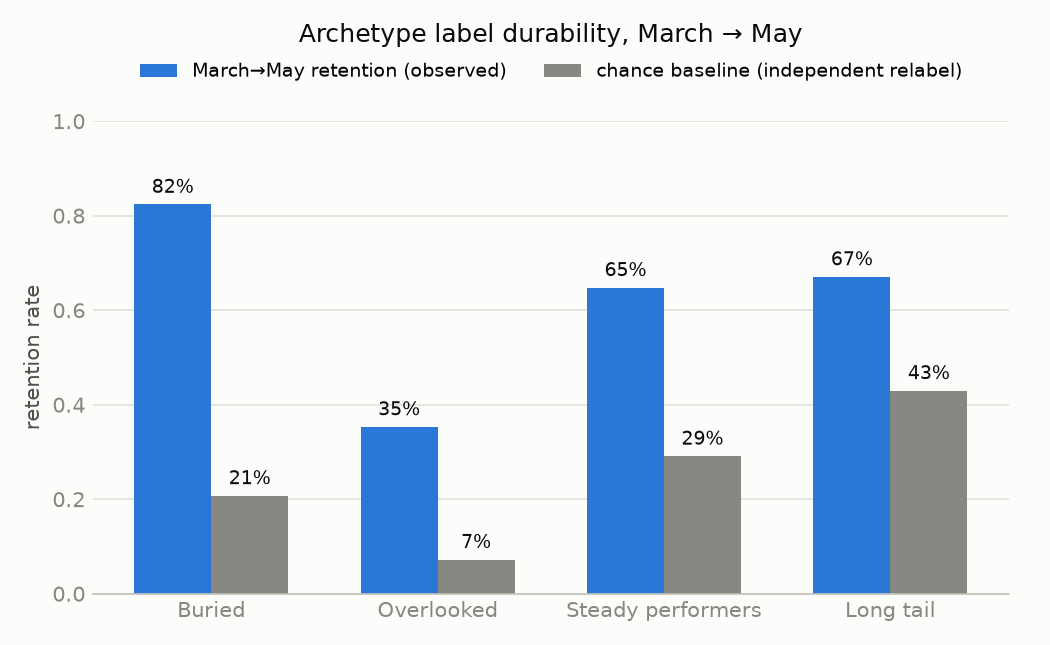
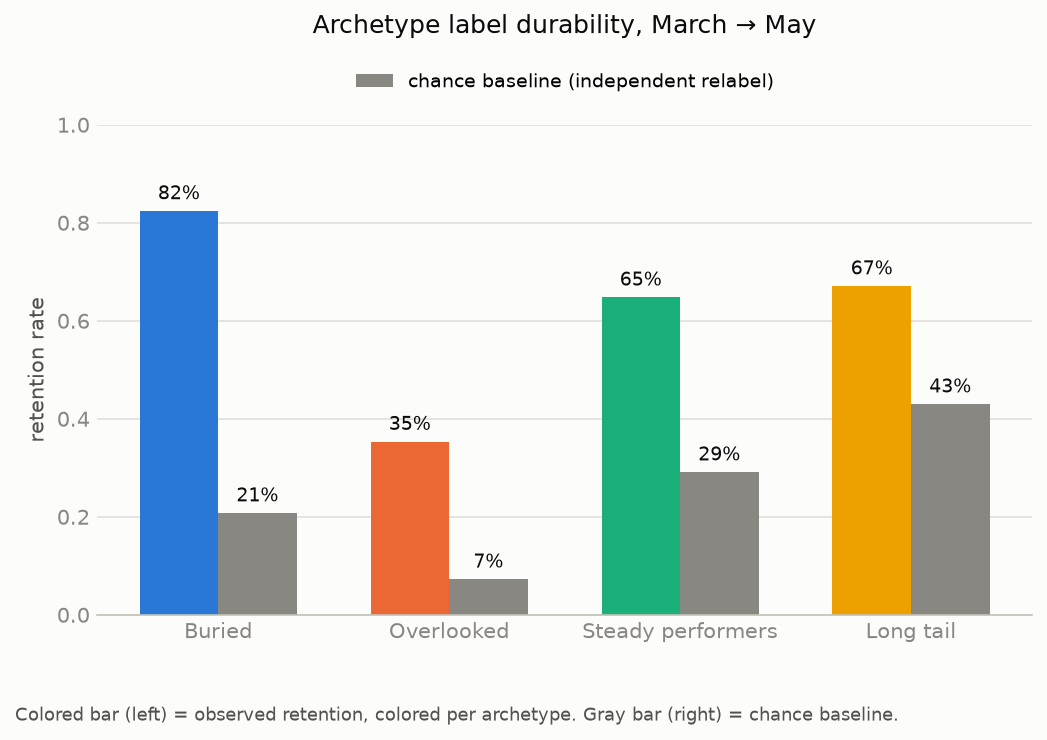
Paper round 2: color consistency, readable numbers, glossary, future-work note, credits
- Recolor archetype_retention_vs_chance.png's observed bars per-archetype
  (matching archetype_profile.png/tier_sizes.png); chance bars stay neutral gray.
- Abbreviate coverage_funnel.png's raw counts to 93.7k/170.4k-style labels.
- Add a Glossary section (CI, O/E, GroupKFold, silhouette, etc.) for mixed
  technical/non-technical readers.
- Add a Recommendations note framing archetype clustering as a routing-layer
  foundation, not a dead end, pointing at per-archetype sub-scoring as next work.
- Rewrite Acknowledgments: credit to Mirza (mentor) and Alen (opportunity), plus
  an AI-assistance disclosure.

diff --git a/docs/index.html b/docs/index.html
@@ -121,6 +121,7 @@
   <nav class="toc">
     <div class="toc-title">Contents</div>
     <a href="#abstract">Abstract</a>
+    <a href="#glossary">Glossary</a>
     <a href="#intro">Introduction</a>
     <a href="#data">Data</a>
     <a href="#methodology">Methodology</a>
@@ -143,6 +144,22 @@
           Which of a content team's tens of thousands of underperforming search pages are actually worth its limited attention, and does a fixed CTR-based rule pick the right ones? Using one month of search-performance data from the FlyRank ML Internship warehouse (331,437 content items, aggregated from 9.8M daily fact rows), a transparent baseline rule and an unsupervised K-Means clustering (k=4, four search-side features, GroupKFold-by-client validation) were each evaluated against the same April outcome window. The rule's raw 1.14× lift over the base improve-rate evaporates once starting CTR is controlled for (O/E 1.03, 95% CI [0.92, 1.16]) — the lift was regression to the mean, not rule skill — and three of the four archetype groups show no better discrimination than chance either. Two results survive: the <strong>Buried</strong> archetype scores meaningfully <em>below</em> chance (O/E 0.645, CI [0.456, 0.810], independently reproduced at 0.667) and is also the most durable label across months (82.4% March→May retention vs. 20.7% expected by chance), making it the only recommendation with two independent signals in agreement. This output is decision-support for a monthly content-review queue, not a causal or predictive claim.
         </p>
       </div>
+    </section>
+
+    <section id="glossary">
+      <h2>Glossary</h2>
+      <p>A quick lookup for the terms below, for readers skimming to Methodology or Results without a stats background. Skip this section if you're already comfortable with the vocabulary.</p>
+      <ul>
+        <li><strong>CI</strong> — Confidence interval. The range an estimate would plausibly fall in if the study were repeated; a CI that includes 1.0 (for an O/E ratio) means "indistinguishable from chance."</li>
+        <li><strong>O/E ratio</strong> — Observed ÷ Expected. Asks "did this group do better than we'd expect given who's in it," not just "did it beat everyone else." Expected is the population's improve-rate re-weighted to the group's own starting-CTR mix (see Methodology's Standardization note), so a group isn't credited just for containing more low-CTR pages, which improve more easily on their own.</li>
+        <li><strong>Base rate</strong> — How often something happens across the whole population, with no filtering applied. The number any rule or model needs to beat to be worth using.</li>
+        <li><strong>Regression to the mean</strong> — A group that started unusually low (or high) tends to drift back toward average on its own, with no intervention required. This is what made the baseline rule's raw lift look real when it wasn't.</li>
+        <li><strong>K-Means / centroid</strong> — K-Means groups pages into a fixed number of clusters by minimizing distance to each cluster's "average page" (its centroid). Every archetype in this paper is one such cluster.</li>
+        <li><strong>Silhouette score</strong> — A 0–1 score for how well-separated clusters are from each other. This paper's 0.387 is a moderate score, not a strong one — see Methodology.</li>
+        <li><strong>GroupKFold</strong> — A cross-validation split that keeps every page from the same client entirely inside one fold, so a client's own pages can never leak between training and testing.</li>
+        <li><strong>Volume floor</strong> — A minimum impression count a page must clear to be included, so a handful of views doesn't get treated as a reliable signal.</li>
+        <li><strong>Multiple comparisons / Bonferroni / FDR correction</strong> — When many groups are each tested against chance, some will clear the bar by luck alone. Bonferroni and FDR are standard statistical corrections for that risk; neither is applied here (see Methodology), which is why the results are framed as exploratory rather than confirmatory.</li>
+      </ul>
     </section>
 
     <section id="intro">
@@ -313,6 +330,9 @@
       <p>
         <strong>Retrain triggers</strong> (midpoint of each archetype's baseline and its own chance retention rate): overall retention below 49.4%; Buried below 51.6% (Tier 1's entire justification rests on this number); Overlooked below 21.3%; Long tail below 55.0%; Steady performers below 46.9%. Also: coverage-funnel drift from 24.1%, client-concentration drift from 21.3%, or Buried's O/E confidence interval crossing 1.0 on a fresh re-run.
       </p>
+      <div class="callout">
+        <strong>Clustering as a foundation, not a dead end.</strong> Most archetypes here show no raw O/E lift — read narrowly, that's a null result for clustering as a scoring tool. But Buried's combination of a below-chance O/E <em>and</em> 82.4% label durability shows that cluster membership itself carries real, measurable signal — being in a cluster means something, even where the lift alone doesn't. The honest reading isn't "abandon clustering," it's that this group-level lens is a plausible <strong>routing layer</strong> for something more targeted later: a natural next step, not built here, is per-archetype sub-scoring — ranking pages <em>within</em> an archetype rather than only between archetypes, so a 20,000-page tier isn't reviewed by <code>total_impressions</code> alone. This queue is a coarse first pass a future system could act on per cluster, not the final word on what clustering can do.
+      </div>
     </section>
 
     <section id="reproducibility">
@@ -337,6 +357,8 @@
     <footer id="acknowledgments">
       <h2>Acknowledgments &amp; Data Credit</h2>
       <p>Built on the <a href="https://flyrank.ai" target="_blank" rel="noopener">FlyRank ML Internship dataset</a>. Data credit and gratitude to FlyRank for the underlying warehouse this work is built on.</p>
+      <p>Thanks to Mirza, the mentor for this track, for the framing and feedback that shaped every stage of this work — from the initial research question through the honest-claims pass on these results. Thanks to Alen for the opportunity to take part in this internship in the first place.</p>
+      <p>This paper was developed with the assistance of Claude (Anthropic's AI assistant), used for methodology review, drafting support, and revision passes across the capstone. Every finding, decision, and conclusion in this paper is my own.</p>
       <p><a class="backtop" href="#abstract">↑ back to top</a></p>
     </footer>
   </main>
